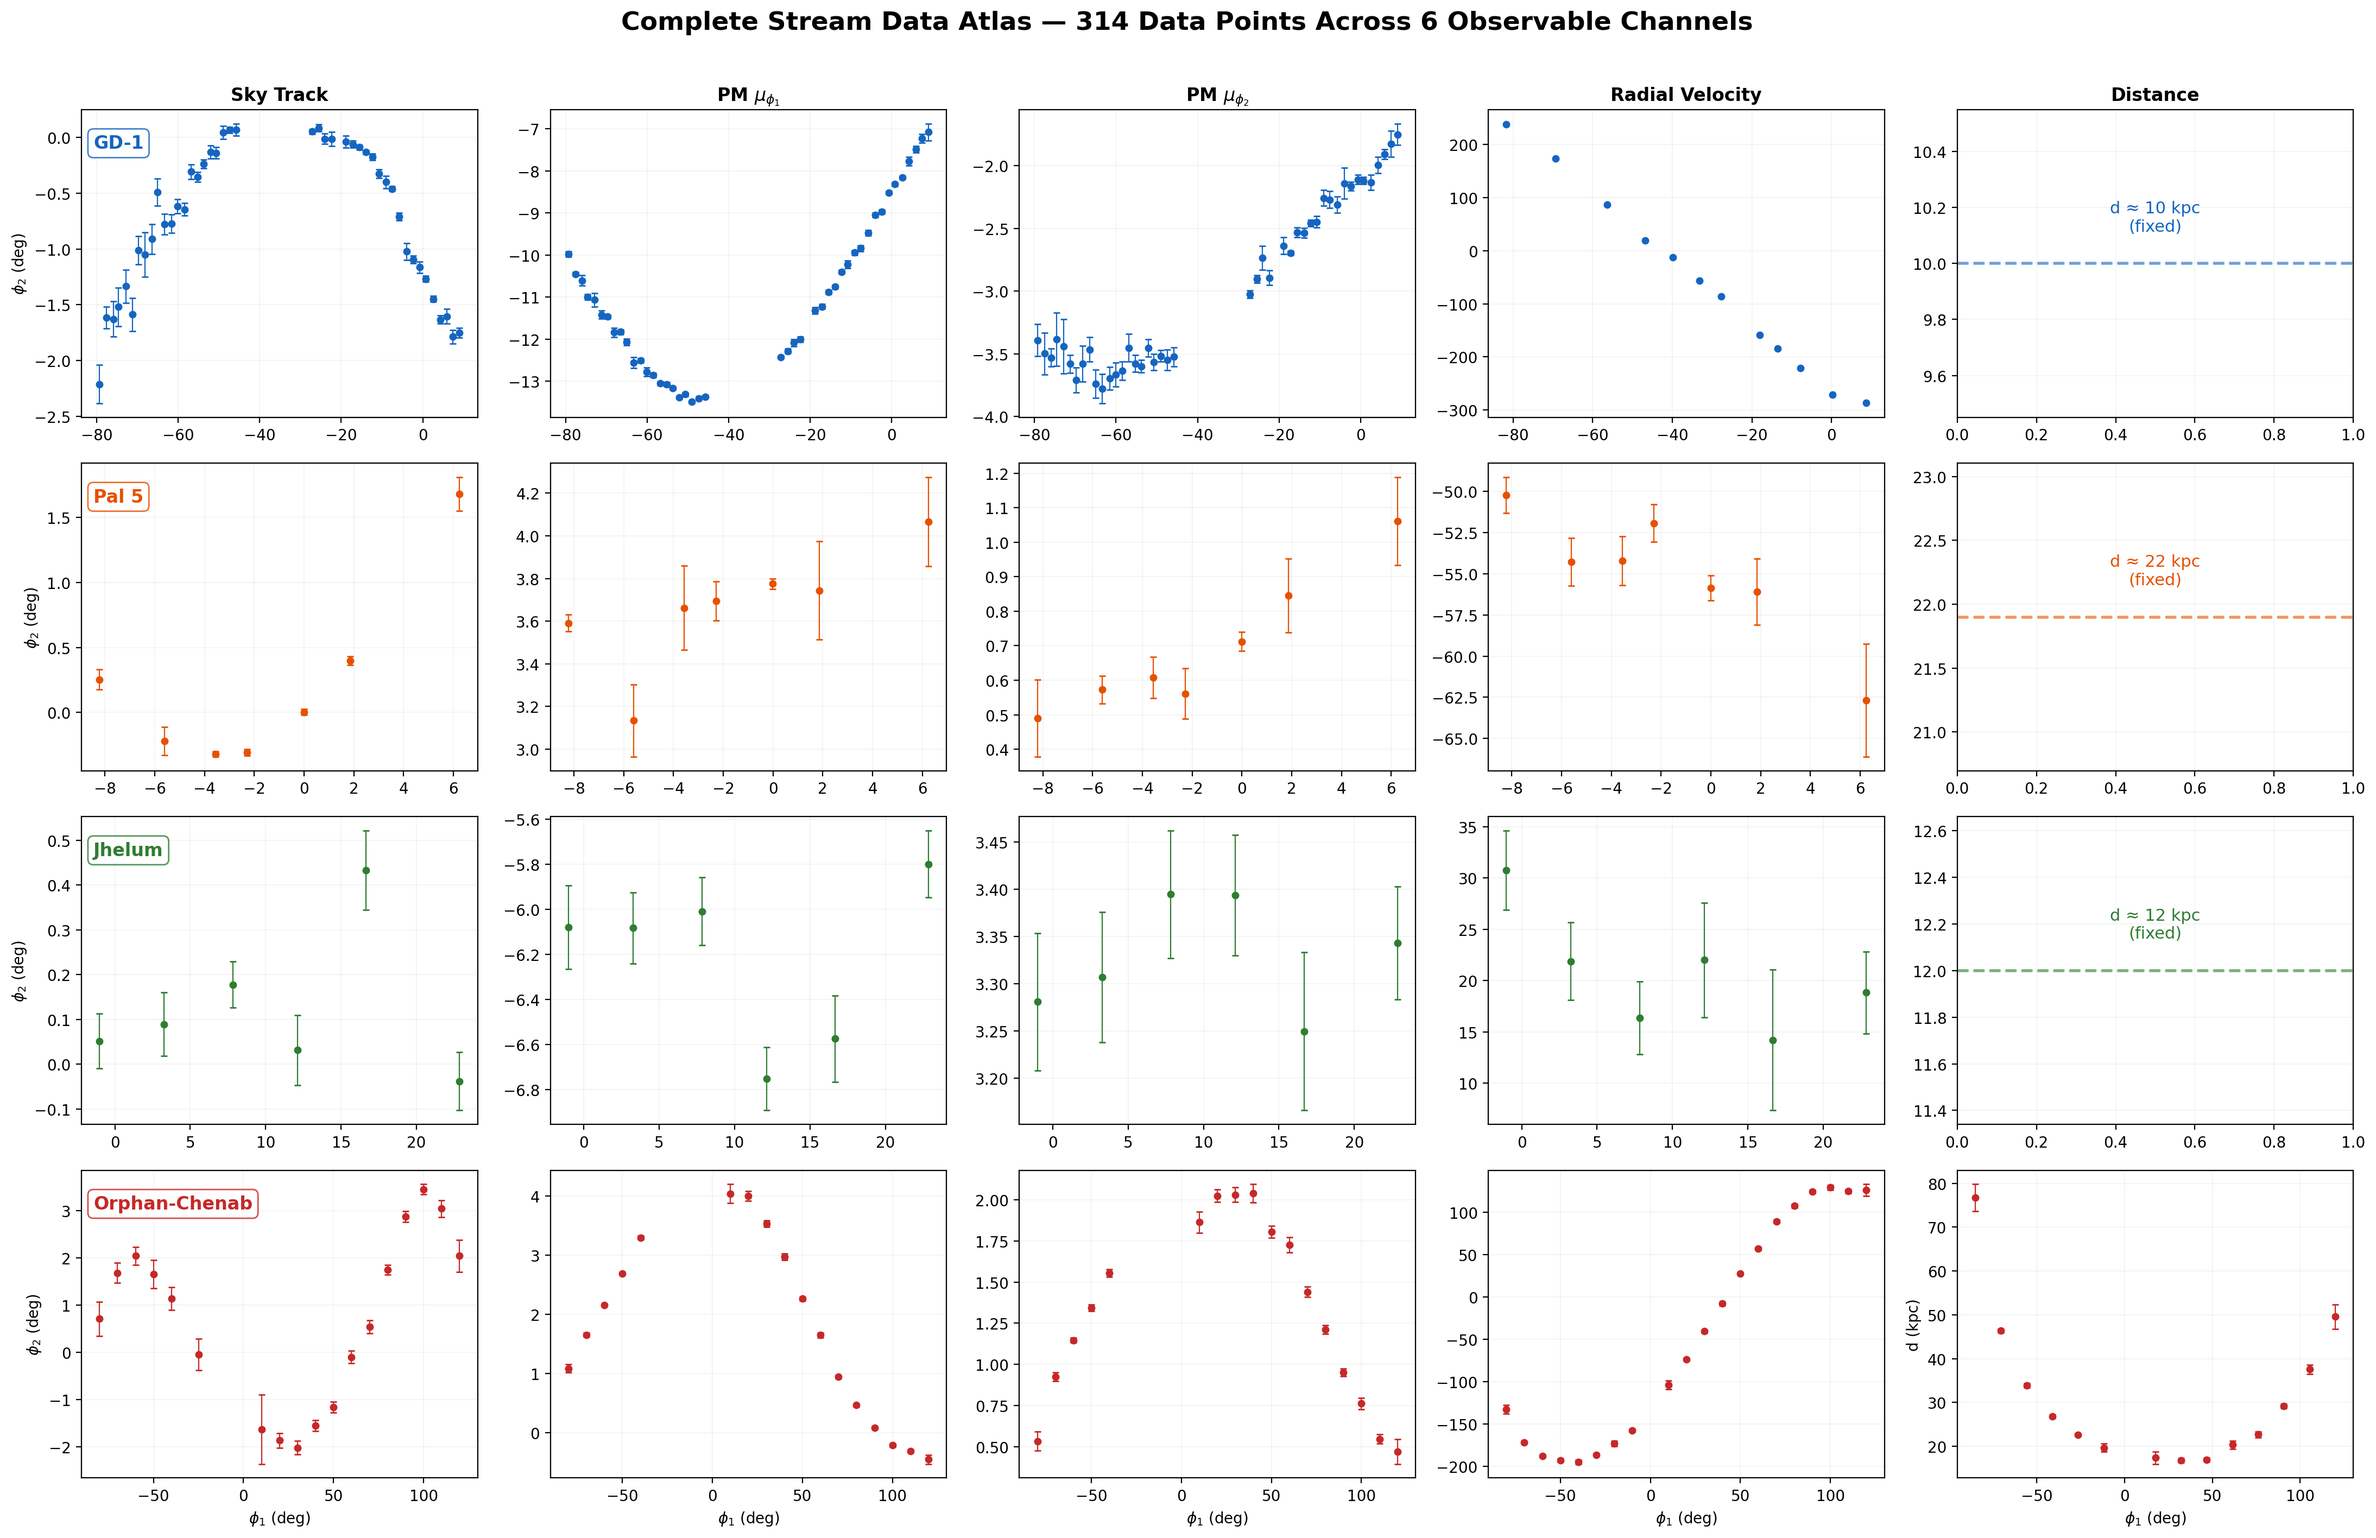
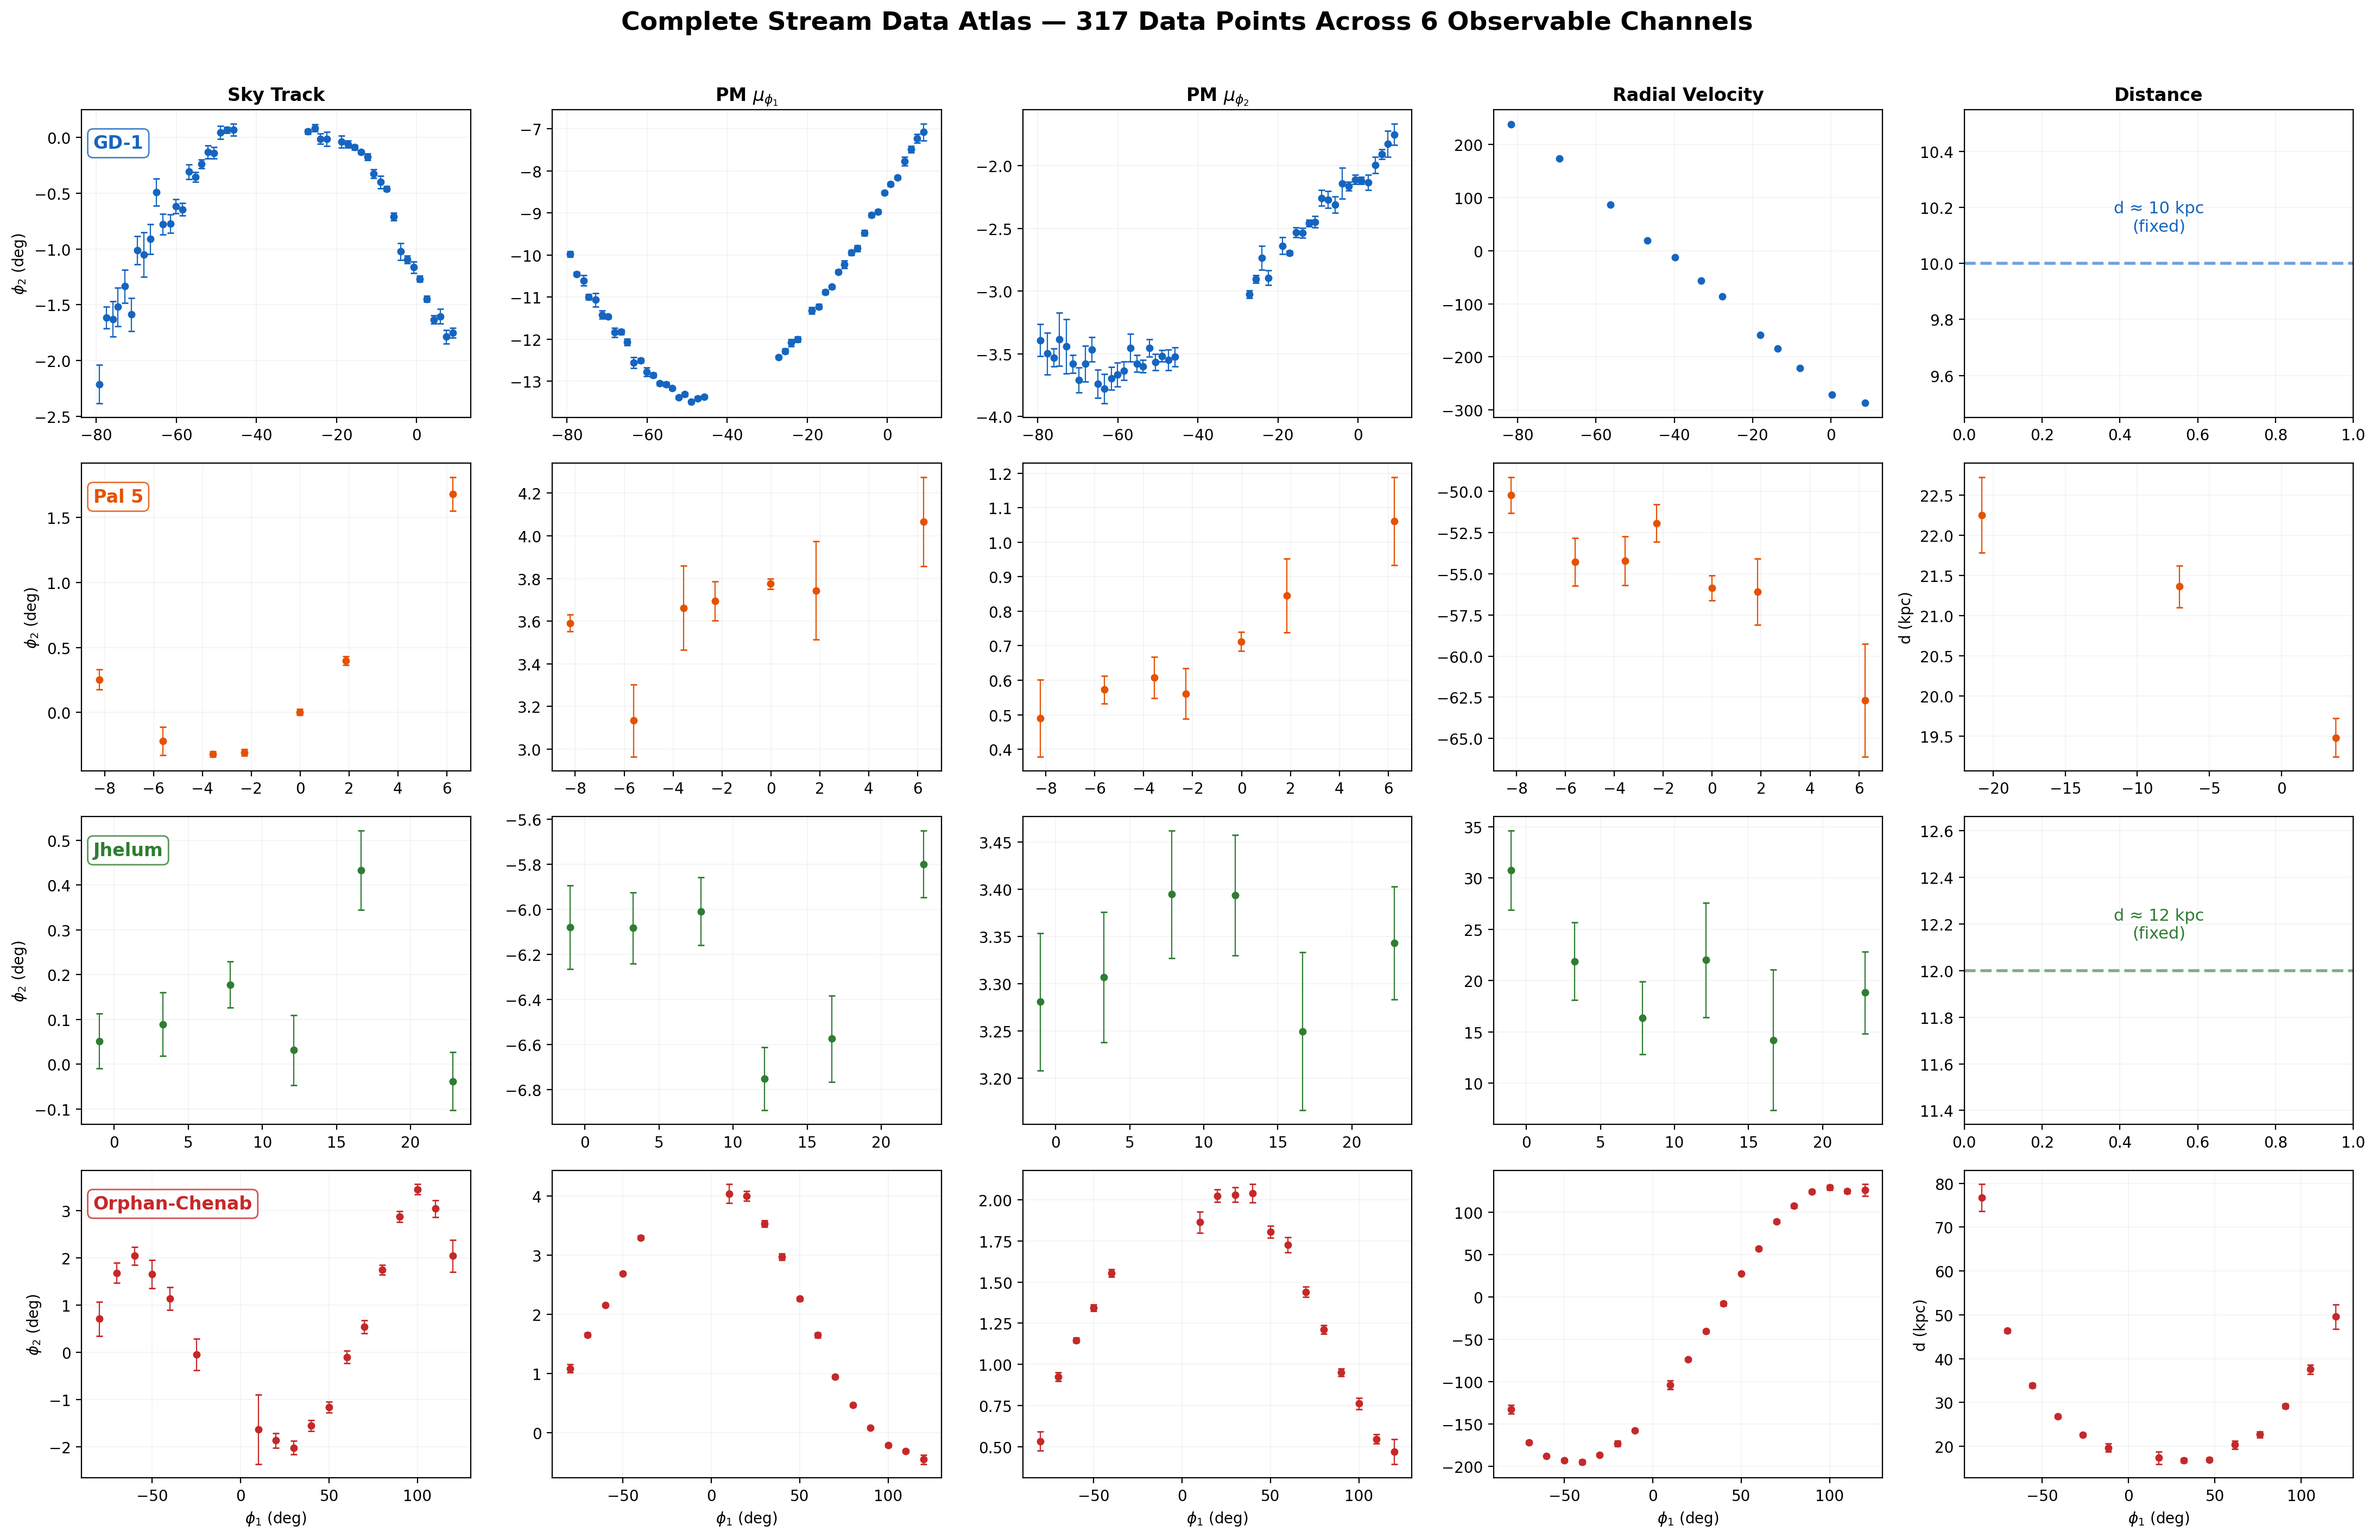
Fix atlas: add Pal 5 distance track, show 317 pts
Atlas script had Pal 5 dist_track: None — now points to
pal5_dist_track.csv. Title and Pal 5 distance column now
show the 3 RR Lyrae bins instead of "d ≈ 22 kpc (fixed)".

diff --git a/scripts/13_acceleration_field.py b/scripts/13_acceleration_field.py
@@ -46,7 +46,7 @@ STREAM_CFG = {
     },
     'Pal 5': {
         'track': 'data/pal5/pal5_track.csv',
-        'rv_track': None, 'dist_track': None,
+        'rv_track': None, 'dist_track': 'data/pal5/pal5_dist_track.csv',
         'frame': gc.Pal5PriceWhelan18,
         'color': '#E65100', 'dist_kpc': 21.9,
     },
